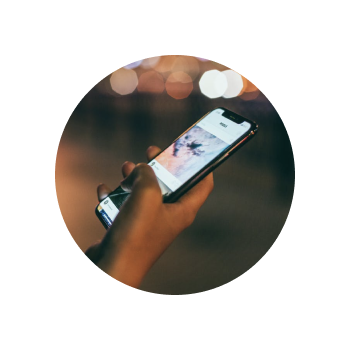
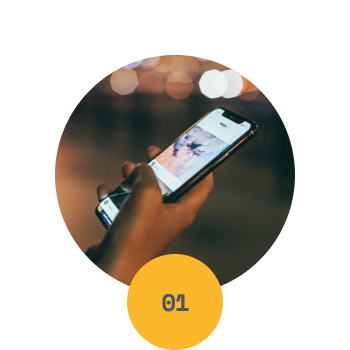
Bubbles almost finished

Changed region(s): [[0.3429, 0.7143, 0.6571, 1.0]]

diff --git a/scoot_project/about.html b/scoot_project/about.html
@@ -19,7 +19,7 @@
                 <p>Getting around should be simple (and even fun!) for everyone. We embrace technology to provide low
                     cost, smart access to scooters at your fingertips.</p>
             </div>
-            <img class="png mask" src="./assets/png/about/about1.png" alt="Someone watching its phone">
+            <img class="png mask" src="./assets/png/about/about1.png" alt="Someone watching his phone">
         </section>
         <section class="imgTxt">
             <img class="png" src="./assets/png/about/about2.png" alt="City with tramways">
@@ -34,12 +34,33 @@
             </div>
         </section>
 
-        <article>
-            <h2></h2>
-            <img src="" alt="">
-            <h4></h4>
-            <p></p>
-        </article>
+        <section class="bubbles">
+            <h2>Our values</h2>
+            <div class="articles">
+                <article>
+                    <img src="./assets/png/about/about3.png" alt="Someone scrolling on his phone">
+                    <h4>Our tech</h4>
+                    <p>We’re using cutting edge technology to drive accessible urban transportation forward. Our fully
+                        electric
+                        scooters are a joy to ride!</p>
+                </article>
+                <article>
+                    <img src="./assets/png/about/about4.png" alt="Someone scrolling on his phone">
+                    <h4>Our integrity</h4>
+                    <p>We are fully committed to deliver a great yet safe, sustainable micro-mobility experience in
+                        every
+                        city we serve.</p>
+                </article>
+                <article>
+                    <img src="./assets/png/about/about5.png" alt="Someone scrolling on his phone">
+                    <h4>Our community</h4>
+                    <p>We support every community we serve. All workers are paid a living wage based on their location
+                        and
+                        are Scoot employees.</p>
+                </article>
+            </div>
+        </section>
+
 
     </main>
     <footer data-include="footer"></footer>

diff --git a/scoot_project/assets/scss/bubbles.scss b/scoot_project/assets/scss/bubbles.scss
@@ -1,1 +1,36 @@
 @import "typos", "colors", "fonts";
+
+.bubbles {
+
+    h2 {
+        @include head2;
+        text-align: center;
+    }
+
+    .articles {
+        display: flex;
+        flex-direction: row;
+        justify-content: space-between;
+
+
+        article {
+            display: flex;
+            flex-direction: column;
+            align-items: center;
+            justify-content: space-between;
+
+
+            h4 {
+                @include head4;
+            }
+
+            p {
+                @include body1;
+                color: $dg;
+                text-align: center;
+            }
+        }
+
+    }
+
+}

diff --git a/scoot_project/style.scss b/scoot_project/style.scss
@@ -7,3 +7,4 @@
 @import "./assets/scss/flexRight";
 @import "./assets/scss/flexLeft";
 @import "./assets/scss/footer";
+@import "./assets/scss/bubbles";
